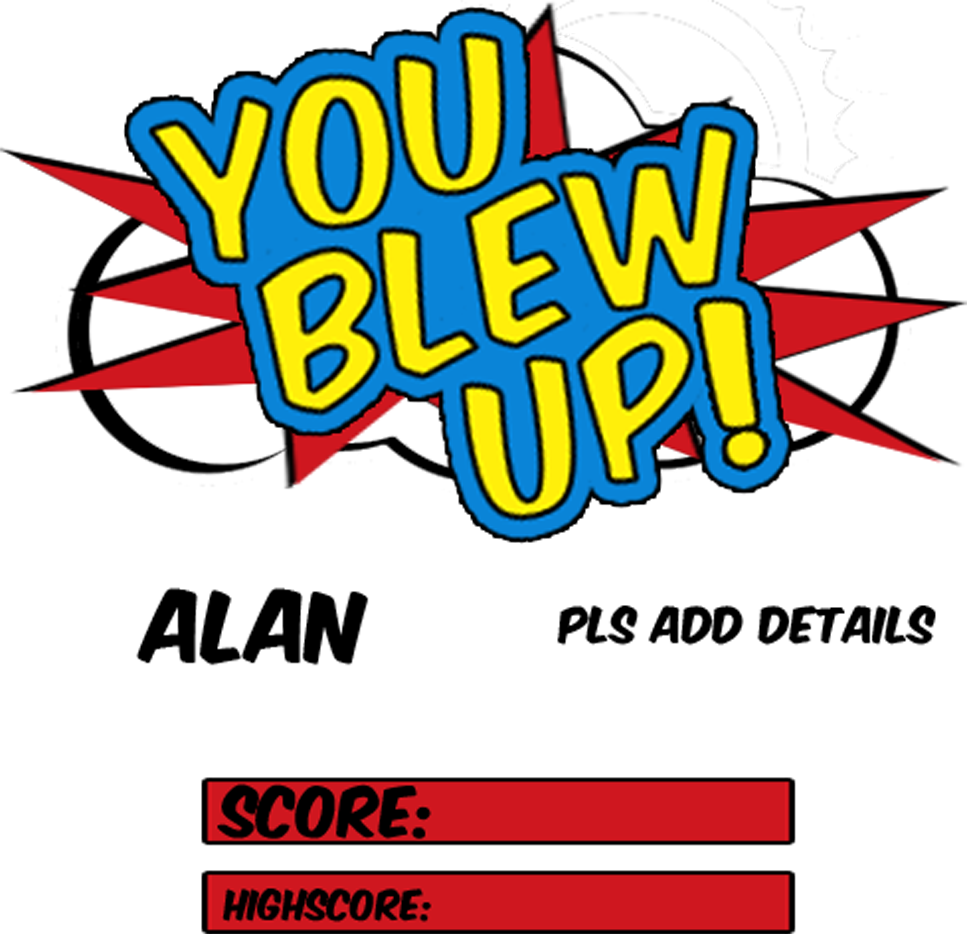
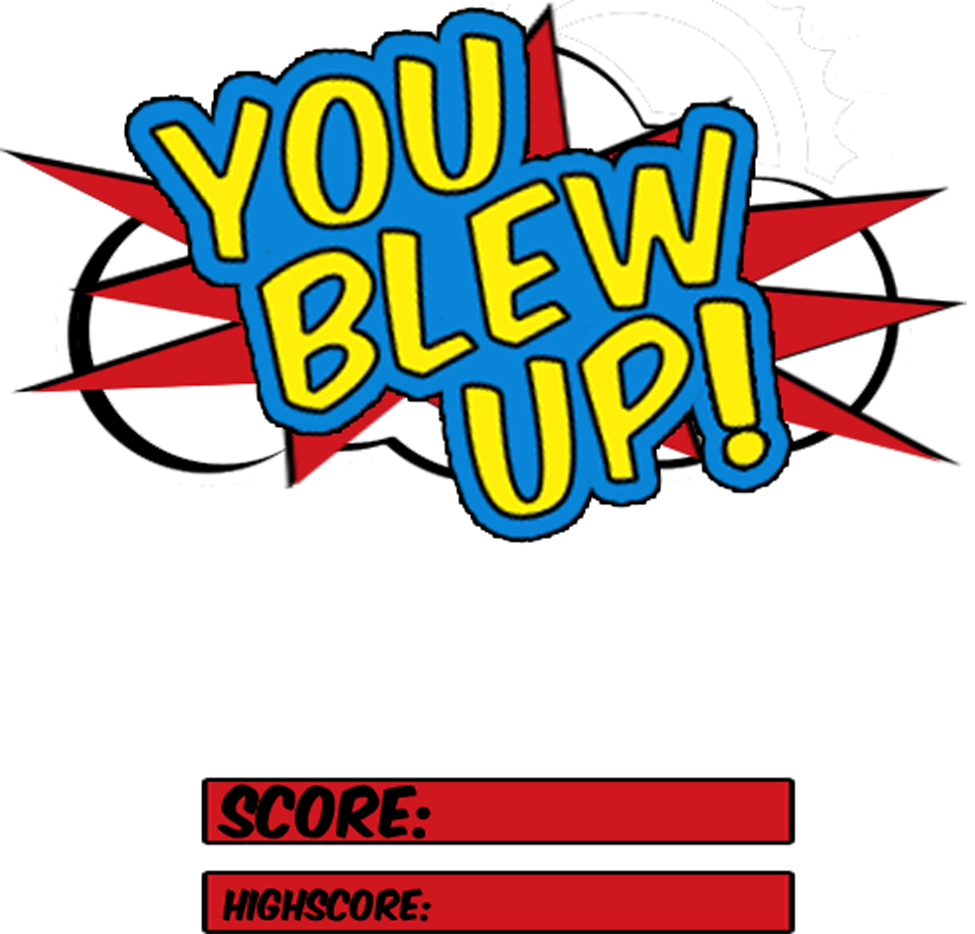
tweaks to to much stuff i to tired

Changed region(s): [[0.1231, 0.621, 0.4, 0.7141], [0.5538, 0.652, 0.9846, 0.7141]]

diff --git a/game_files/main.py b/game_files/main.py
@@ -198,13 +198,13 @@ class RootWidget(BoxLayout):
                     size=(self.sq_w*0.2, self.sq_w*0.2))
                     
                     # return to main menu button
-                    Rectangle(source=("img/deathandpause/mainmenubtn.png"), pos=(self.play_field_width//20, 7*self.play_field_height//20), \
+                    Rectangle(source=("img/deathandpause/mainmenubtn.png"), pos=(4.3*self.play_field_width//20, 7.35*self.play_field_height//20), \
                             size=(self.sq_w, self.sq_w//5))
                     
                     # restart game button
-                    Rectangle(source=("img/deathandpause/restartbtn.png"), pos=(self.play_field_width//20, 4*self.play_field_height//20), \
+                    Rectangle(source=("img/deathandpause/restartbtn.png"), pos=(11.2*self.play_field_width//20, 7.35*self.play_field_height//20), \
                             size=(self.sq_w, self.sq_w//5))
-                    
+                
                 else:
                     #Pausebutton
                     Rectangle(source="img/pausebutton.png", pos=(self.play_field_width*0.99,self.play_field_height * 1.05), size=(self.sq_w*0.2, self.sq_w*0.2))
@@ -240,16 +240,16 @@ class RootWidget(BoxLayout):
         highscore = self.get_highest_score()
                           
         # draw out the deathscreen
-        Rectangle(source="img/ripscreen.png", pos=(self.play_field_x+0.5*self.sq_w, \
-                  self.play_field_y+(self.sq_h*0.5)), size=(self.sq_w*(self.board_size_x-1), self.sq_h*(self.board_size_y-1)))
+        Rectangle(source="img/deathandpause/alan.png", pos=(self.play_field_x+0.5*self.sq_w, \
+                  1.1*self.play_field_y+(self.sq_h*0.5)), size=(self.sq_w*(self.board_size_x-1), 0.85*self.sq_h*(self.board_size_y-1)))
                   
         # gets the indexes of the correct imgaes that are going to draw out the time
         index_list = self.get_image_index(str(self.timer))
         
         # draw out the time on screen
         for m in range(len(index_list)):
-            Rectangle(source=(number_images[index_list[m]]), pos=(4*self.play_field_width//20 + 0.5 * m*self.play_field_width//20,\
-                                self.play_field_height//20 + self.play_field_height//40), size=(self.play_field_width//50,self.play_field_width//50))
+            Rectangle(source=(number_images[index_list[m]]), pos=(12*self.play_field_width//20 + 0.5 * m*self.play_field_width//20,\
+                                4.25*self.play_field_height//20 + self.play_field_height//40), size=(self.play_field_width//50,self.play_field_width//50))
 
         
         
@@ -258,16 +258,16 @@ class RootWidget(BoxLayout):
         
         # draw out the highest score on screen
         for m in range(len(index_list)):
-            Rectangle(source=(number_images[index_list[m]]), pos=(4*self.play_field_width//20 + 0.5 * m*self.play_field_width//20,\
-                                self.play_field_height//20 * 2 + self.play_field_height//40), size=(self.play_field_width//50,self.play_field_width//50))
+            Rectangle(source=(number_images[index_list[m]]), pos=(12*self.play_field_width//20 + 0.5 * m*self.play_field_width//20,\
+                                self.play_field_height//20 * 2.95 + self.play_field_height//40), size=(self.play_field_width//50,self.play_field_width//50))
         
         
         # return to main menu button
-        Rectangle(source=("img/deathandpause/mainmenubtn.png"), pos=(self.play_field_width//20, 7*self.play_field_height//20), \
+        Rectangle(source=("img/deathandpause/mainmenubtn.png"), pos=(4.3*self.play_field_width//20, 7.35*self.play_field_height//20), \
                 size=(self.sq_w, self.sq_w//5))
         
         # restart game button
-        Rectangle(source=("img/deathandpause/restartbtn.png"), pos=(self.play_field_width//20, 4*self.play_field_height//20), \
+        Rectangle(source=("img/deathandpause/restartbtn.png"), pos=(11.2*self.play_field_width//20, 7.35*self.play_field_height//20), \
                 size=(self.sq_w, self.sq_w//5))
         
     def get_image_index(self, time):
@@ -524,18 +524,18 @@ class RootWidget(BoxLayout):
             if( self.rip or self.paused):
             
                 # check if the user wants to restart the game
-                if(touch.x >= self.play_field_width//20 and
-                touch.x < self.play_field_width//20 + self.sq_w and
-                touch.y >= 4*self.play_field_height/20 and
-                touch.y < 4*self.play_field_height//20 + self.sq_w//5 ):
+                if(touch.x >= 11.2*self.play_field_width//20 and
+                touch.x < 11.2*self.play_field_width//20 + self.sq_w and
+                touch.y >= 7.35*self.play_field_height/20 and
+                touch.y < 7.35*self.play_field_height//20 + self.sq_w//5 ):
                     self.restart_game()
                     
                 
                 # check if the player wants to return to the main menu
-                if(touch.x >= self.play_field_width//20 and
-                touch.x < self.play_field_width//20 + self.sq_w and
-                touch.y >= 7*self.play_field_height/20 and
-                touch.y < 7*self.play_field_height//20 + self.sq_w//5):
+                if(touch.x >= 4.3*self.play_field_width//20 and
+                touch.x < 4.3*self.play_field_width//20 + self.sq_w and
+                touch.y >= 7.35*self.play_field_height/20 and
+                touch.y < 7.35*self.play_field_height//20 + self.sq_w//5):
                     self.menu.set_status(True)
                     self.restart_game()
             
